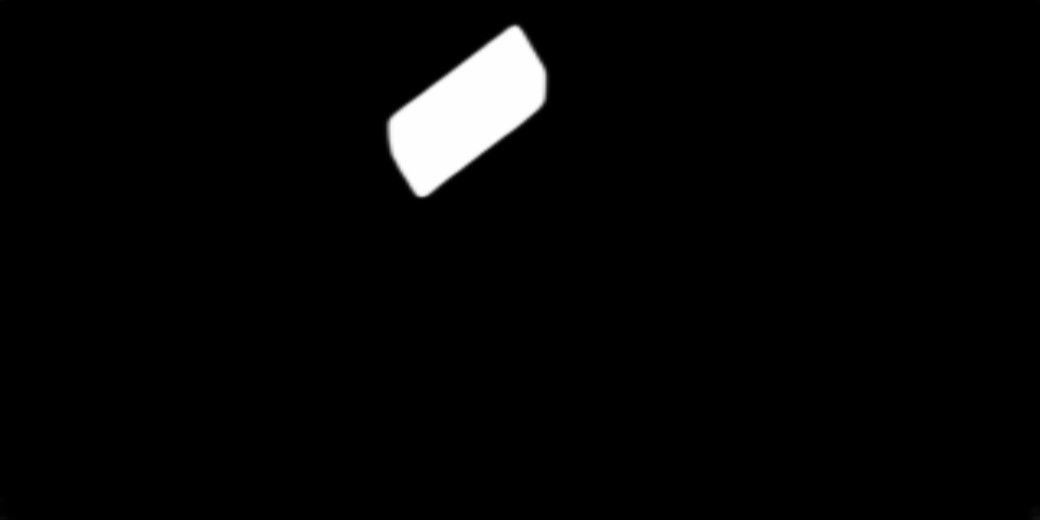
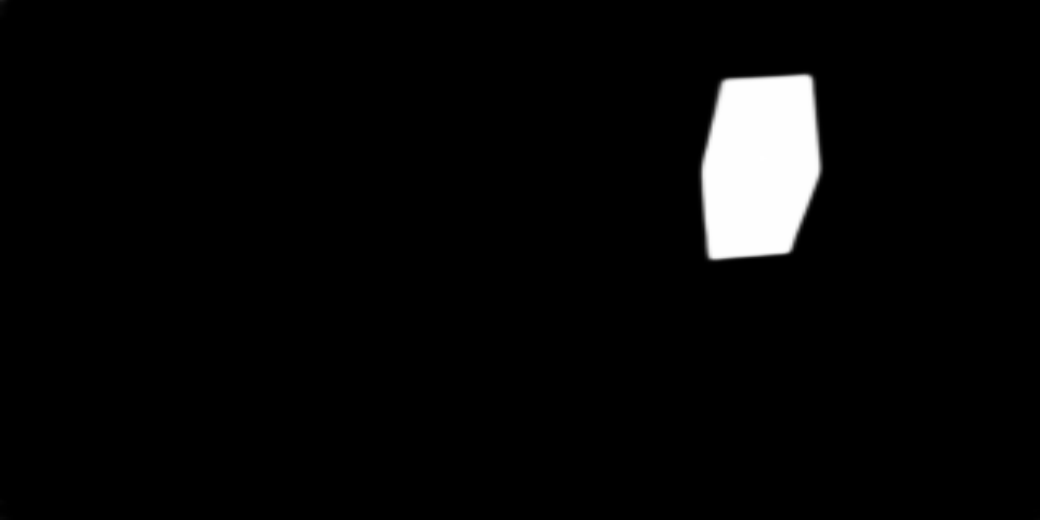
Add automatic pickup try and fail, fix errors and handle them, and collect success/fail data

Changed region(s): [[0.6462, 0.1231, 0.8, 0.5231], [0.3692, 0.0308, 0.5538, 0.4]]

diff --git a/main.py b/main.py
@@ -19,19 +19,17 @@ arm.connect()
 def find_robot_transformation():
     # top left, top right, bottom left, bottom right
     points = np.float32([[120.6, -250.9], [126, 251.5], [349.4, -255.6], [352.2, 251.2]])
-    projected_size = [520, 1040]  # x and y are flipped in the robot
     border = np.float32([[0, 0], [1040, 0], [0, 520], [1040, 520]])
     return (cv2.getPerspectiveTransform(border, points))
 
 
-def main():
+def main(itt):
     # Run Camera Module, Get the transformation matrix from camera to aruco outline
     #M, top_points = camera_control.detect_aruco()
     #M_table_to_robot = find_robot_transformation()
     #M = camera_control.start()
-
-    while True:
-
+    while itt<2000:
+        itt+=1
         # Save transformed image
         camera_control.transform_image(M, True)
 
@@ -47,6 +45,11 @@ def main():
         centers = []
         for set in range(len(corners)):
             center = np.average(corners[set], axis=0) - h_means[set]
+
+            #Add random noise to the center point
+            center = center + 10 * np.random.random()
+
+
             transformed_points = np.squeeze(cv2.perspectiveTransform(np.array(center).reshape(-1, 1, 2), M_table_to_robot))
             #transformed_points = np.squeeze(cv2.perspectiveTransform(np.array(center).reshape(-1, 1, 2), M_table_to_robot))
             #center_transformed = np.average(transformed_points, axis=0)
@@ -61,7 +64,8 @@ def main():
             randrz = np.random.randint(0, 90)
 
             for center in centers[1:]:
-                flag_close.append((np.abs(randx-center[0]) > 30) and (np.abs(randy-center[1]) > 30))
+                flag_close.append((np.abs(randx-center[0]) < 60) and (np.abs(randx-center[0]) > 30))\
+                              and (np.abs(randy-center[1]) < 60) and (np.abs(randy-center[1]) > 30)
             # for i in range(1, len(centers)):
             #     #print("randx: " + str(randx) + " center x : " + str(centers[i][0]))
             #     flag_close.append( (np.abs(randx-centers[i][0]) > 45) and (np.abs(randy-centers[i][1]) > 70))
@@ -73,25 +77,43 @@ def main():
         row_threshold = int(np.average([top_points[0][1], top_points[1][1]]))
         cols_threshold = np.array([int(top_points[0][0]), int(top_points[1][0])])
 
-        is_picked = block_stack.stack_func(centers[0], rand_place, randrz, row_threshold, cols_threshold)
+        rand_block = np.random.randint(len(centers))
+
+        is_picked = block_stack.stack_func(centers[rand_block], rand_place, randrz, row_threshold, cols_threshold)
         if (is_picked is not None):
             success.append(int(is_picked))
-            np.savetxt('data_'+current_Time+'.csv', np.array(success),  fmt='%i', delimiter=',')
+            np.savetxt('Data/' + current_Time + '/label_'+current_Time+'.csv', np.array(success),  fmt='%i', delimiter=',')
+
+            cv2.imwrite("Data/" + current_Time + "/run_number_" + str(itt)+".jpg", blocks[rand_block])
+            full_img = cv2.imread("camera_output.jpg")
+            #full_img = cv2.cvtColor(full_img, cv2.COLOR_BGR2RGB)
+            # cv2.imshow(cv2.bitwise_not(full_img, blocks[rand_block]))
+            # cv2.waitKey(0)
+            # cv2.destroyAllWindows()
+            cv2.imwrite("Data/" + current_Time + "/run_number_fullimg" + str(itt) + ".jpg", cv2.bitwise_and(full_img,full_img, mask=blocks[rand_block]))
+            picked_centers.append(centers[rand_block])
+            np.savetxt('Data/' + current_Time + '/picked_centers_' + current_Time + '.csv', np.array(picked_centers), fmt='%i', delimiter=',')
+        else:
+            itt -= 1
 
         block_stack.complete_clean()
         block_stack.set_initial_position()
+        return itt
 
 current_Time = str(datetime.now(timezone.utc))[:-13]
+os.mkdir(os.getcwd()+"/Data/"+current_Time)
 success = []
+picked_centers = []
+itt = 0
 
 M, top_points = camera_control.detect_aruco()
 M_table_to_robot = find_robot_transformation()
 
-while (True):
+while itt<2000:
     block_stack.complete_clean()
     block_stack.set_initial_position()
     try:
-        main()
+        itt = main(itt)
     except Exception:
         #TODO: add clean errors and such
         # block_stack.complete_clean()

diff --git a/testvelocity.py b/testvelocity.py
@@ -1,0 +1,63 @@
+import os
+import shutil
+import numpy as np
+import cv2
+import camera_control
+import Segmentation.U_2_Net.u2net_test as u2net
+import Segmentation.find_instances as find_instances
+import Segmentation.top_finder as top_finder
+import Robot_Control.block_stack as block_stack
+import sys
+from datetime import datetime, timezone
+from xarm.wrapper import XArmAPI
+from time import sleep
+import time
+
+
+#arm = XArmAPI('COM5')
+arm = XArmAPI('192.168.1.165')
+arm.motion_enable(enable=True)
+arm.set_mode(0)
+arm.set_state(state=0)
+time.sleep(1)
+
+
+print(arm.version)
+
+#arm.reset(wait=True)
+
+# set cartesian velocity control mode
+arm.set_mode(5)
+arm.set_state(0)
+time.sleep(1)
+
+cur = []
+count = 0
+avg = 0
+
+while not (np.linalg.norm(arm.currents) < 0.85 * avg and count > 10):
+    arm.vc_set_cartesian_velocity([0, 0, -30, 0, 0, 0])
+    time.sleep(0.5)
+    arm.vc_set_cartesian_velocity([0, 0, -1, 0, 0, 0])
+    # arm.set_position_aa([*start_pos, arm.get_position()[1][2]-5, 180, 0, 0], speed=20 ,wait=True)
+    cur.append(np.linalg.norm(arm.currents))
+    # position = arm.get_position_aa()[1]
+    avg = np.mean(cur)
+
+    print(np.linalg.norm(arm.currents))
+    # print("\n")
+    count += 1
+    # print()
+    # print(arm.currents)
+
+# time.sleep(2)
+# arm.vc_set_cartesian_velocity([0, 50, 0, 0, 0, 0])
+# time.sleep(2)
+# arm.vc_set_cartesian_velocity([0, 0, 50, 0, 0, 0])
+# time.sleep(2)
+# arm.vc_set_cartesian_velocity([0, 50, 0, 0, 0, 0])
+# time.sleep(4)
+# arm.vc_set_cartesian_velocity([0, 0, -50, 0, 0, 0])
+# time.sleep(2)
+# stop
+arm.vc_set_cartesian_velocity([0, 0, 0, 0, 0, 0])

diff --git a/Segmentation/find_edges.py b/Segmentation/find_edges.py
@@ -109,15 +109,6 @@ def classify_box(contour, centroid, M):
     top_parameters = np.array(np.flip(np.array(top_parameters), axis=0))
     top_linesP = np.array(np.flip(np.array(top_linesP), axis=0))
 
-    # blank = np.zeros_like(contour)
-    # for l in top_linesP:
-    #     cv2.line(blank, (l[0], l[1]), (l[2], l[3]), (255, 255, 255), 3, cv2.LINE_AA)
-    # for l in linesP:
-    #     cv2.line(blank, (l[0][0], l[0][1]), (l[0][2], l[0][3]), (255, 255, 255), 3, cv2.LINE_AA)
-    #
-    # cv2.imshow("top", blank)
-    # cv2.waitKey(0)
-    # cv2.destroyAllWindows()
 
     merged_parameters_bottom = merge_similar_lines(parameters, linesP)
     merged_parameters_top = merge_similar_lines(top_parameters, top_linesP)
